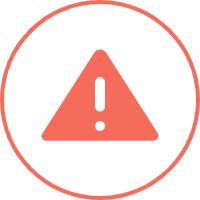
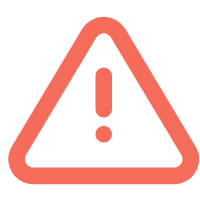
tip：更改卸载图标

diff --git a/web/src/components/tabsnav/uninstallalert.tsx b/web/src/components/tabsnav/uninstallalert.tsx
@@ -8,11 +8,6 @@ import {
     AlertDialogHeader,
     AlertDialogTitle,
 } from "@/components/ui/alert-dialog"
-import { 
-    Avatar, 
-    AvatarImage, 
-    AvatarFallback 
-} from '@/components/ui/avatar';
 import { Item } from "@/type.d/common"
 import { useState } from "react"
 import * as http from "@/api/modules/fouceinter"
@@ -68,11 +63,10 @@ export function AlertDialogDemo({ isOpen, onClose, app, onUninstall }: AlertDial
         {variantState === "destructive" && <FalseToaster />}
         <AlertDialog open={isOpen} onOpenChange={(open) => { if (!open) onClose(); }}>
             <AlertDialogContent>
-                <div className="flex items-center space-x-3">
-                    <Avatar>
-                        <AvatarImage  src={warnIcon} />
-                        <AvatarFallback>...</AvatarFallback>
-                    </Avatar>
+                <div className="flex items-start space-x-3">
+                    <div className="w-[45px] h-[45px] rounded-3xl bg-uninsbg-warn ">
+                        <img src={warnIcon} className="size-6 ml-2.5 mt-2.5" />
+                    </div>
                     
                     <AlertDialogHeader>
                         <AlertDialogTitle>{t('卸载')}</AlertDialogTitle>

diff --git a/web/src/components/main/page.tsx b/web/src/components/main/page.tsx
@@ -361,7 +361,7 @@ function MainPage() {
                                             exit={{ opacity: 0 }}
                                             transition={{ duration: 0.5 }}
                                         >
-                                            <Card key={index} className="lg:w-auto lg:h-[140px] md:w-auto w-[360px]">
+                                            <Card key={index} className="lg:w-auto md:w-auto w-auto lg:h-[140px] lg:my-3 lg:mr-4 md:my-3 md:mr-4 my-3 mx-0 px-2">
                                                 <CardContent className="flex justify-start space-x-4 pt-6">
                                                     <Skeleton className="h-10 w-10 rounded-full" />
                                                     <CardDescription className="space-y-2 text-left">

diff --git a/web/tailwind.config.js b/web/tailwind.config.js
@@ -16,6 +16,7 @@ theme: {
 				'theme-color': '#84c56a',
 				'theme-success': '#e8f5e2',
 				'theme-warning':'#fdf2f2',
+				'uninsbg-warn': '#FEE2E2',
 				background: 'hsl(var(--background))',
 				foreground: 'hsl(var(--foreground))',
 				card: {
